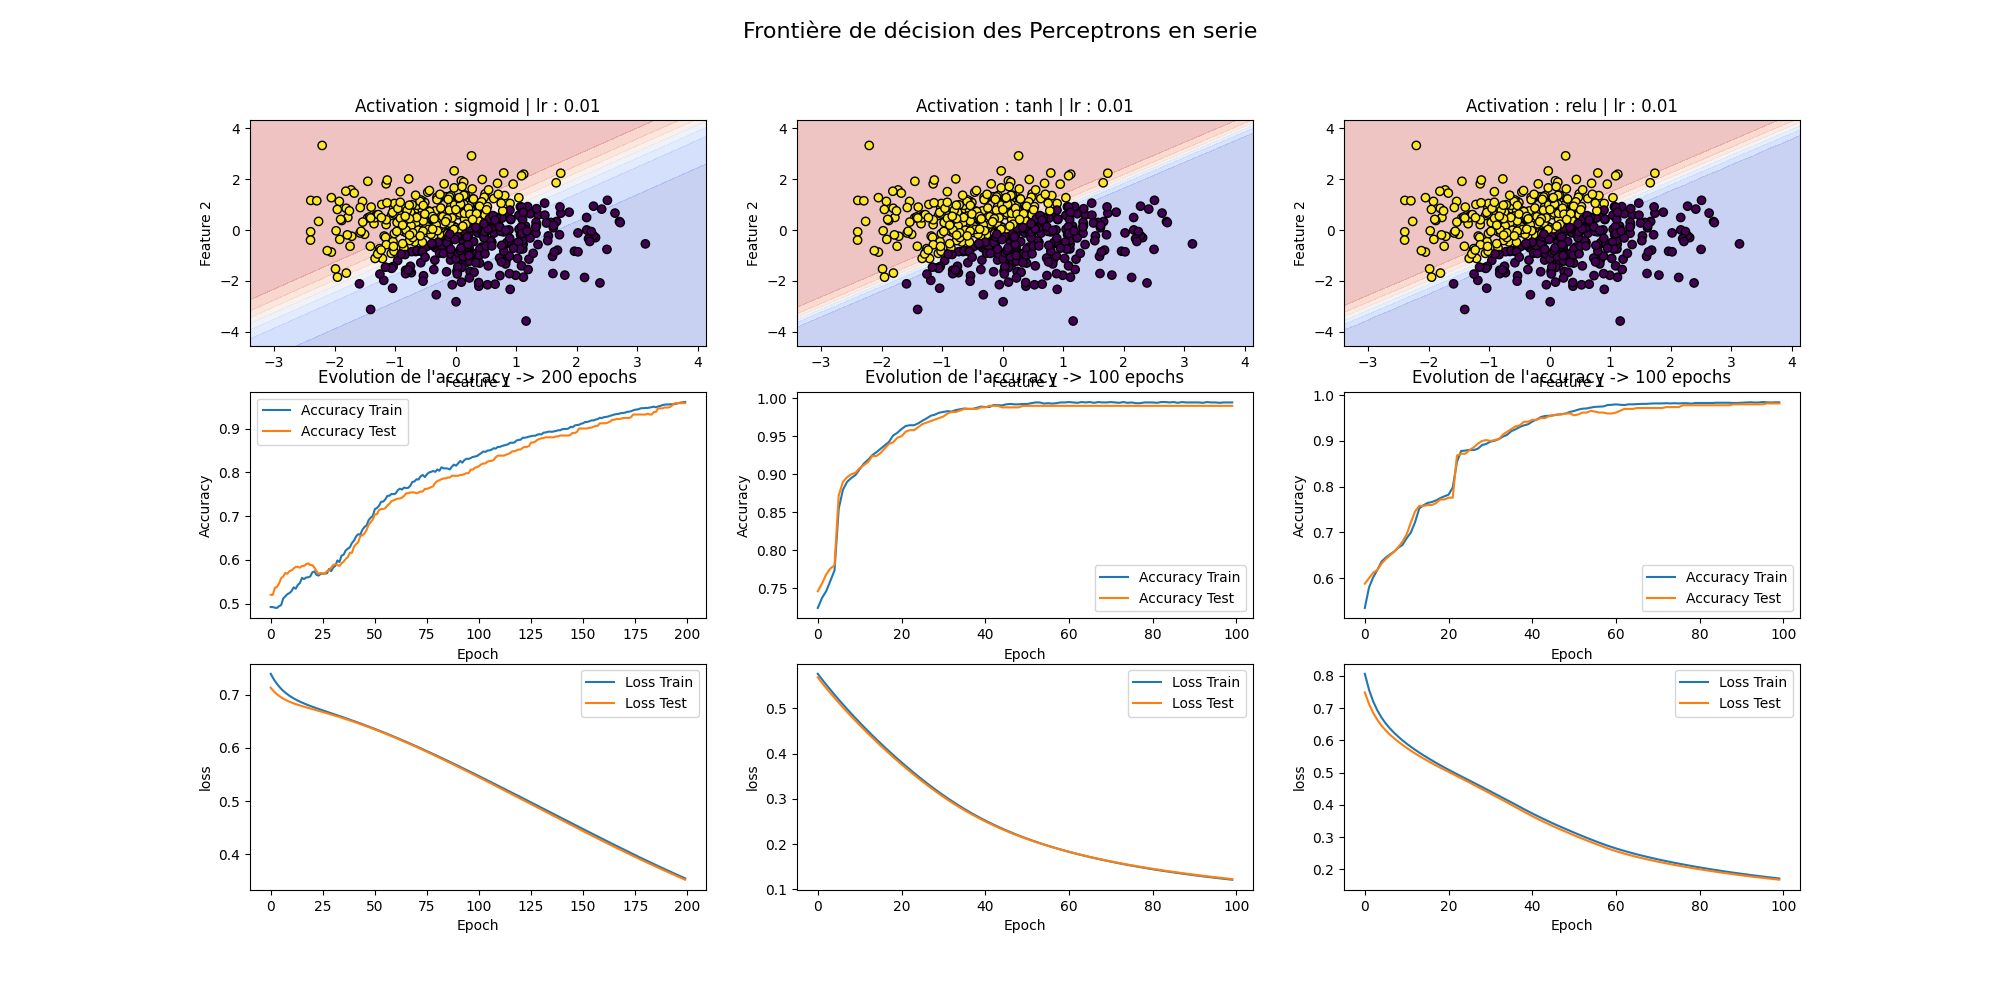
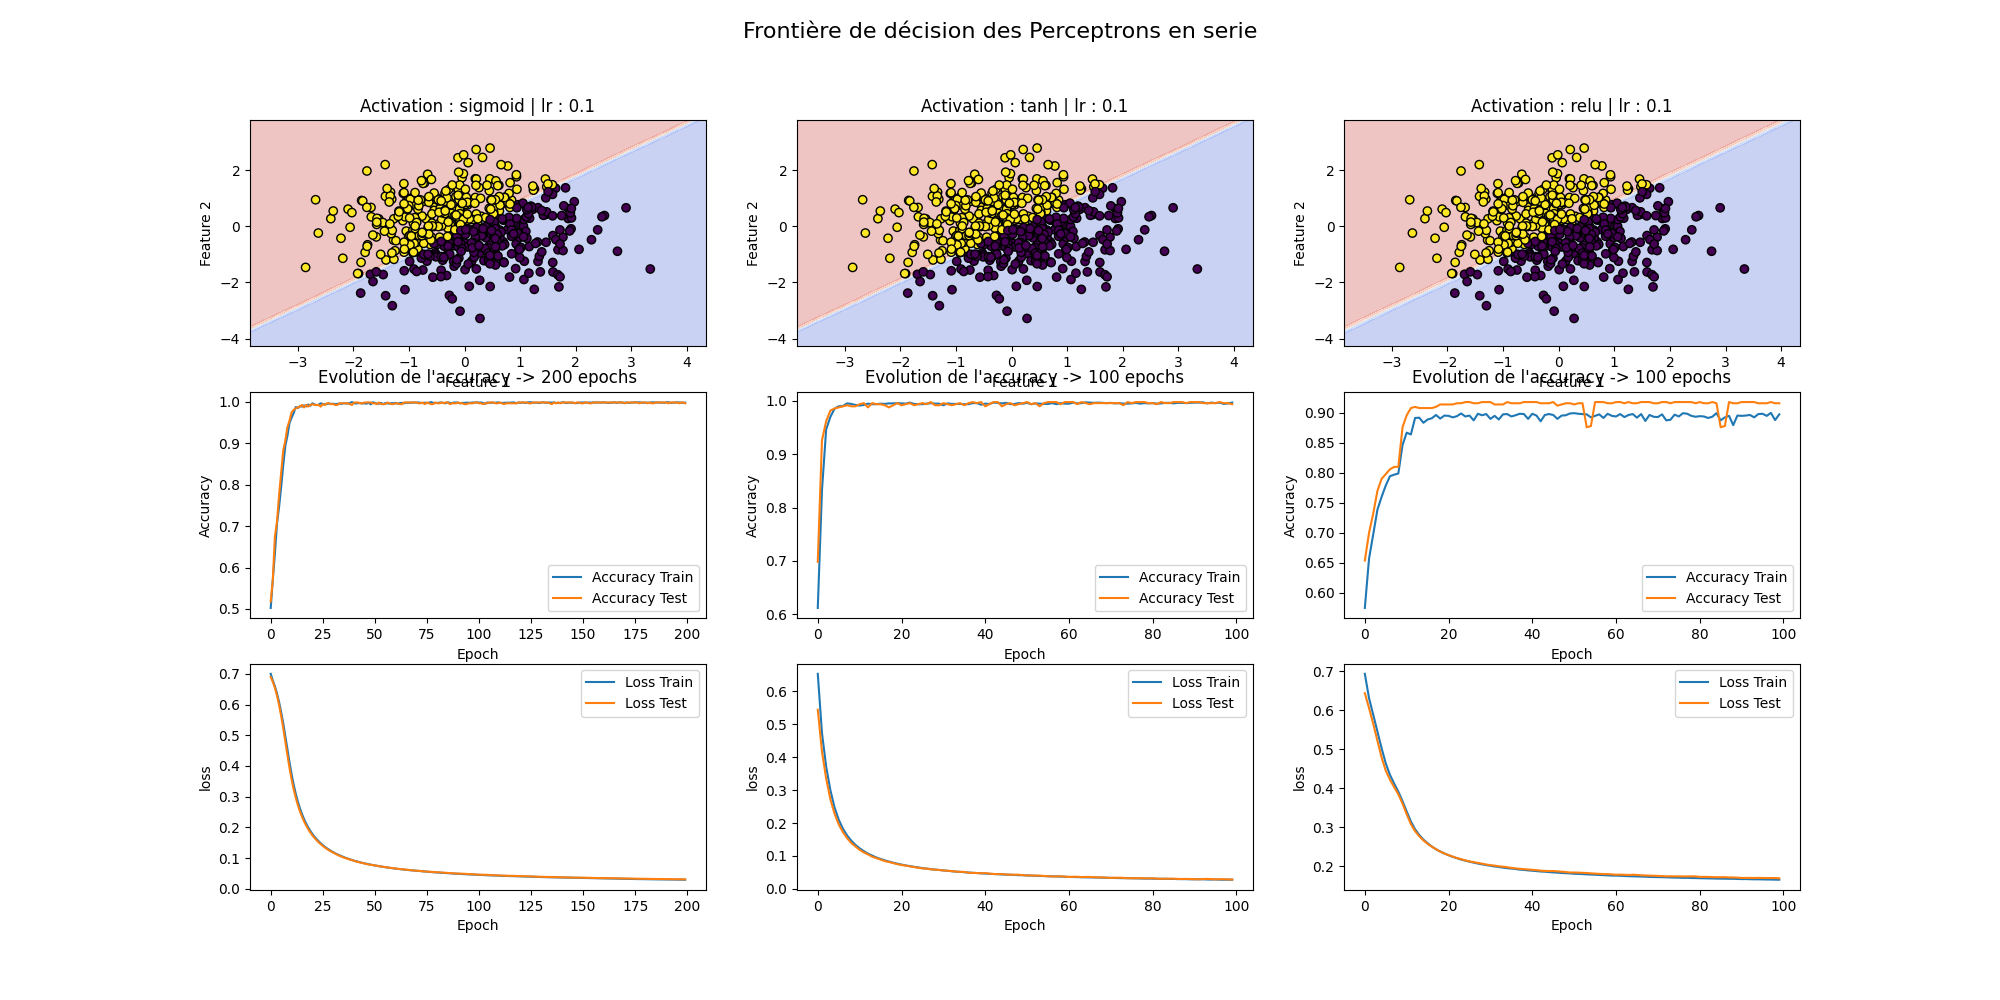
fix readme

diff --git a/rendu_6/app.py b/rendu_6/app.py
@@ -11,7 +11,6 @@ from tensorflow.keras.models import Sequential
 from tensorflow.keras.optimizers import SGD
 
 
-
 ####################################  Dataset aléatoire  ####################################
 
 
@@ -112,9 +111,9 @@ fig, axs = plt.subplots(ncols=3, nrows=3, figsize=(20, 10))
 axs = axs.flatten()
 index = 0
 
-parametres = [("sigmoid", 200, 0.1, 16),
-               ("tanh", 100, 0.05, 16),
-               ("relu", 100, 0.05, 16)]
+parametres = [("sigmoid", 200, 0.1, 8),
+               ("tanh", 100, 0.1, 16),
+               ("relu", 100, 0.1, 16)]
 
 for a, epochs, lr, batch_size in parametres:
     accuracies = []
@@ -304,7 +303,7 @@ index = 0
 
 parametres = [("sigmoid", 150, 0.01, 16),
                ("tanh", 150, 0.005, 16),
-               ("relu", 100, 0.005, 32)] # (activation, epochs, lr, batch_size)
+               ("relu", 100, 0.005, 16)] # (activation, epochs, lr, batch_size)
 
 for a, epochs, lr, batch_size in parametres:
     accuracies = []
@@ -384,9 +383,9 @@ fig, axs = plt.subplots(ncols=3, nrows=3, figsize=(20, 10))
 axs = axs.flatten()
 index = 0
 
-parametres = [("sigmoid", 200, 0.03, 8),
-               ("tanh", 150, 0.03, 8),
-               ("relu", 150, 0.03, 8)]
+parametres = [("sigmoid", 200, 0.1, 8),
+               ("tanh", 100, 0.1, 16),
+               ("relu", 100, 0.1, 16)]
 
 for a, epochs, lr, batch_size in parametres:
     accuracies = []

diff --git a/rendu_6/README.md b/rendu_6/README.md
@@ -2,24 +2,39 @@
 
 ## 📝 Description du Rendu
 
-Le projet consiste en l'implémentation et l'entraînement d'un perceptron pour la classification binaire. Il est structuré de manière à permettre une visualisation des données ainsi que de la frontière de décision qui sépare les deux classes. Le perceptron utilise une fonction d'activation de type seuil (step function) pour effectuer les prédictions.
+Ce projet a pour objectif de comparer différentes architectures de perceptrons et fonctions d'activation sur deux jeux de données distincts :
 
-### Objectifs du Projet :
+1. Un dataset généré aléatoirement, puis standardisé.
+2. Le dataset Iris, chargé depuis les bases de données standards et transformé par une Analyse en Composantes Principales (PCA) pour une projection en 2D.
 
-- **Génération des Données** : Importation du dataset Iris, suivi d'une réduction de dimensionnalité via l'Analyse en Composantes Principales (PCA) pour ne conserver que les deux premières dimensions principales. Ce processus permet de visualiser et classifier les données dans un espace 2D tout en conservant un maximum d'information.
-- **Implémentation du Perceptron** : Création d'une classe `Perceptron` permettant d'initialiser les paramètres d'entraînement (taux d'apprentissage, nombre d'itérations, poids, biais), d'effectuer la fonction d'activation, d'entraîner le modèle et de faire des prédictions.
-- **Visualisation** : Affichage des points sur un graphique, avec un code couleur pour les classes "Label 0" et "Label 1", ainsi que la frontière de décision obtenue par le perceptron.
-- **Tests Comparatifs** : Comparaison des performances entre différents modèles :
+L'analyse vise à observer l'impact de ces choix sur la frontière de décision et l'évolution des métriques d'évaluation.
 
-  - Un perceptron simple.
-  - Deux perceptrons en série.
-  - Deux perceptrons en parallèle.
+## 🎯 Objectifs du Projet
+
+L'expérimentation porte sur les configurations suivantes :
+
+* Un perceptron unique.
+* Deux perceptrons en série.
+* Deux perceptrons en parallèle.
+
+Chacune de ces architectures est testée avec les trois fonctions d'activation suivantes :
+
+* Sigmoïde `sigmoid`
+* Tangente hyperbolique `tanh`
+* Rectified Linear Unit `ReLU`
+
+## 📊 Métriques d'évaluation
+
+Pour chaque combinaison, les résultats sont analysés à travers :
+
+* **La frontière de décision**, affichée graphiquement pour une meilleure visualisation des zones de classification.
+* **L'évolution de l'accuracy**, permettant d'observer la performance du modèle en fonction des itérations d'entraînement.
+* **L'évolution de la loss en cross-validation**, afin de suivre la convergence du modèle.
 
 ## 📂 Structure du Rendu
 
 Le projet est organisé comme suit :
 
-* `Perceptron.py` : Contient la classe `Perceptron`, avec ses méthodes pour l'entraînement et la prédiction des données.
 * `app.py` : Exécute l'entraînement et affiche les résultats avec les graphes de précision et la frontière de décision.
 
 ## Étude du Dataset Iris
@@ -56,17 +71,33 @@ L'utilisation de la réduction de dimensionnalité avec PCA a grandement facilit
 
 #### 📈 Graphiques
 
-##### 1/ Perceptron simple
+##### Dataset aléatoire
+
+###### 1/ Perceptron simple
 
 ![perceptron](img/perceptron_simple_activations.png)
 
-##### 3/ Deux perceptron en serie
+###### 2/ Deux perceptrons en serie
 
 ![perceptron_serie](img/perceptron_serie_activations.png)
 
-##### 4/ Deux perceptron en parallèle
+###### 3/ Deux perceptrons en parallèle
 
 ![perceptron_para](img/perceptron_para_activations.png)
+
+##### Dataset iris
+
+###### 1/ Perceptron simple
+
+![perceptron](img/perceptron_simple_activations_iris.png)
+
+###### 2/ Deux perceptrons en serie
+
+![perceptron_serie](img/perceptron_serie_activations_iris.png)
+
+###### 3/ Deux perceptrons en parallèle
+
+![perception_para](img/perceptron_para_activations_iris.png)
 
 ## ✨ Auteurs
 
